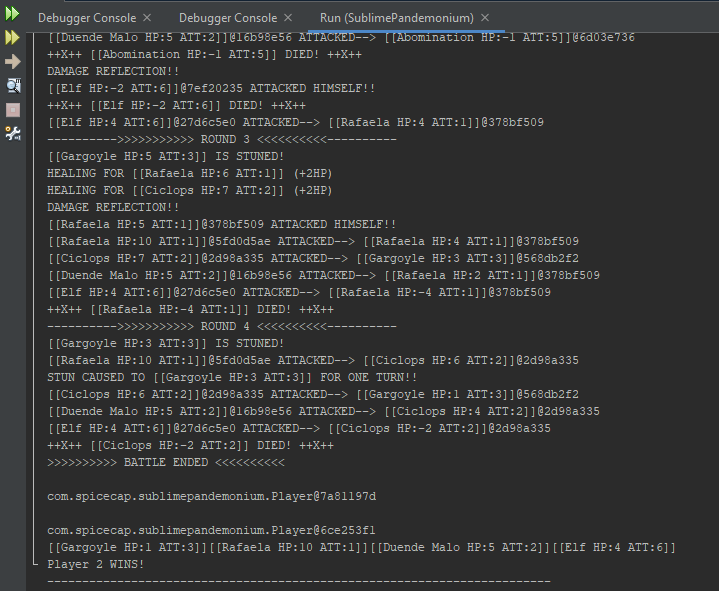
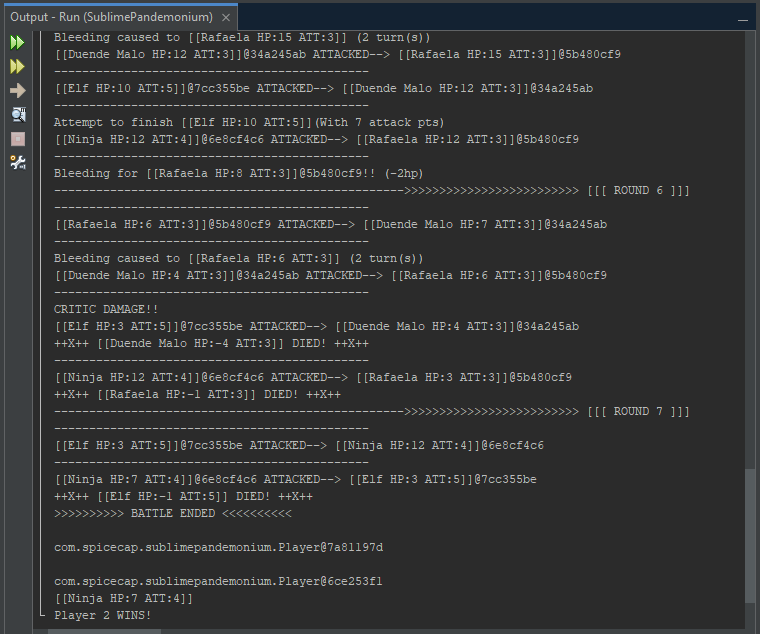
Método para chequear decks vacíos antes del ataque

Changed region(s): [[0.0, 0.0, 1.0, 1.0]]

diff --git a/src/main/java/com/spicecap/sublimepandemonium/SublimePandemonium.java b/src/main/java/com/spicecap/sublimepandemonium/SublimePandemonium.java
@@ -2,6 +2,9 @@
 
 package com.spicecap.sublimepandemonium;
 
+import static com.spicecap.sublimepandemonium.Player.checkEmptyDeck;
+import static com.spicecap.sublimepandemonium.Player.deathsCount;
+
 
 
 public class SublimePandemonium {
@@ -106,20 +109,8 @@ public class SublimePandemonium {
                 }
             }
             
-            player1.cardsLeft = 5;
-            player2.cardsLeft = 5;
             
-            for (int i = 0; i < 5; i++) {
-                
-                if (player1.deck[i].dead) 
-                    player1.cardsLeft -= 1;
-                if (player2.deck[i].dead) 
-                    player2.cardsLeft -= 1;
-                
-            }
-        
-             
-        } while (player1.cardsLeft > 0 && player2.cardsLeft > 0);
+        } while (!checkEmptyDeck(player1.deck) && !checkEmptyDeck(player2.deck));
         
         
         
@@ -129,11 +120,11 @@ public class SublimePandemonium {
         player1.showDeck();
         player2.showDeck();
         
-        if (player1.cardsLeft > player2.cardsLeft) {
+        if (deathsCount(player1.deck) < deathsCount(player2.deck)) {
             System.out.println("Player 1 WINS!");
             player1.winner = true;
         }
-        else if (player1.cardsLeft < player2.cardsLeft) {
+        else if (deathsCount(player1.deck) > deathsCount(player2.deck)) {
             System.out.println("Player 2 WINS!");
             player2.winner = true;
         } 

diff --git a/src/main/java/com/spicecap/sublimepandemonium/Player.java b/src/main/java/com/spicecap/sublimepandemonium/Player.java
@@ -4,14 +4,13 @@ package com.spicecap.sublimepandemonium;
 
 public class Player {
     
-    public Card[] deck = new Card[5];
+    public int[] refDeck = new int[5];
     
-    public int cardsLeft;
+    public Card[] deck = new Card[5];
     
     public boolean winner;
     
     public Player() {
-        this.cardsLeft = 5;
     }
     
     public void showDeck() {
@@ -23,4 +22,20 @@ public class Player {
         System.out.println();
     }
     
+    public static int deathsCount(Card[] deck) {
+        int count = 0;
+        for (int i = 0; i < 5; i++) {
+            if (deck[i].dead) {
+                count++;
+            }
+        }
+        return count;
+    }
+    
+    public static boolean checkEmptyDeck(Card[] deck) {
+        if (deathsCount(deck) == 5) 
+            return true;
+        else
+            return false;
+    }
 }

diff --git a/src/main/java/com/spicecap/sublimepandemonium/Card.java b/src/main/java/com/spicecap/sublimepandemonium/Card.java
@@ -1,6 +1,7 @@
 
 package com.spicecap.sublimepandemonium;
 import java.util.Random;
+import static com.spicecap.sublimepandemonium.Player.checkEmptyDeck;
 
 
 
@@ -90,7 +91,8 @@ public class Card {
     
     public void attack(Card[] deckOrig, Card[] deckDest) {
         
-        
+      if (!checkEmptyDeck(deckDest)) {
+            
         int attackPoints = 0;
         
         // HABILIDADES DE DAÑO DIRECTO--------------------
@@ -181,8 +183,9 @@ public class Card {
             this.hp -= 2;
             this.fire -= 1;
             if (checkDeath(this)) 
-                System.out.println("Died due to fire");
+                System.out.println("Due to fire");
         }
+      }
     }
     
     //----------------------------------------------------
